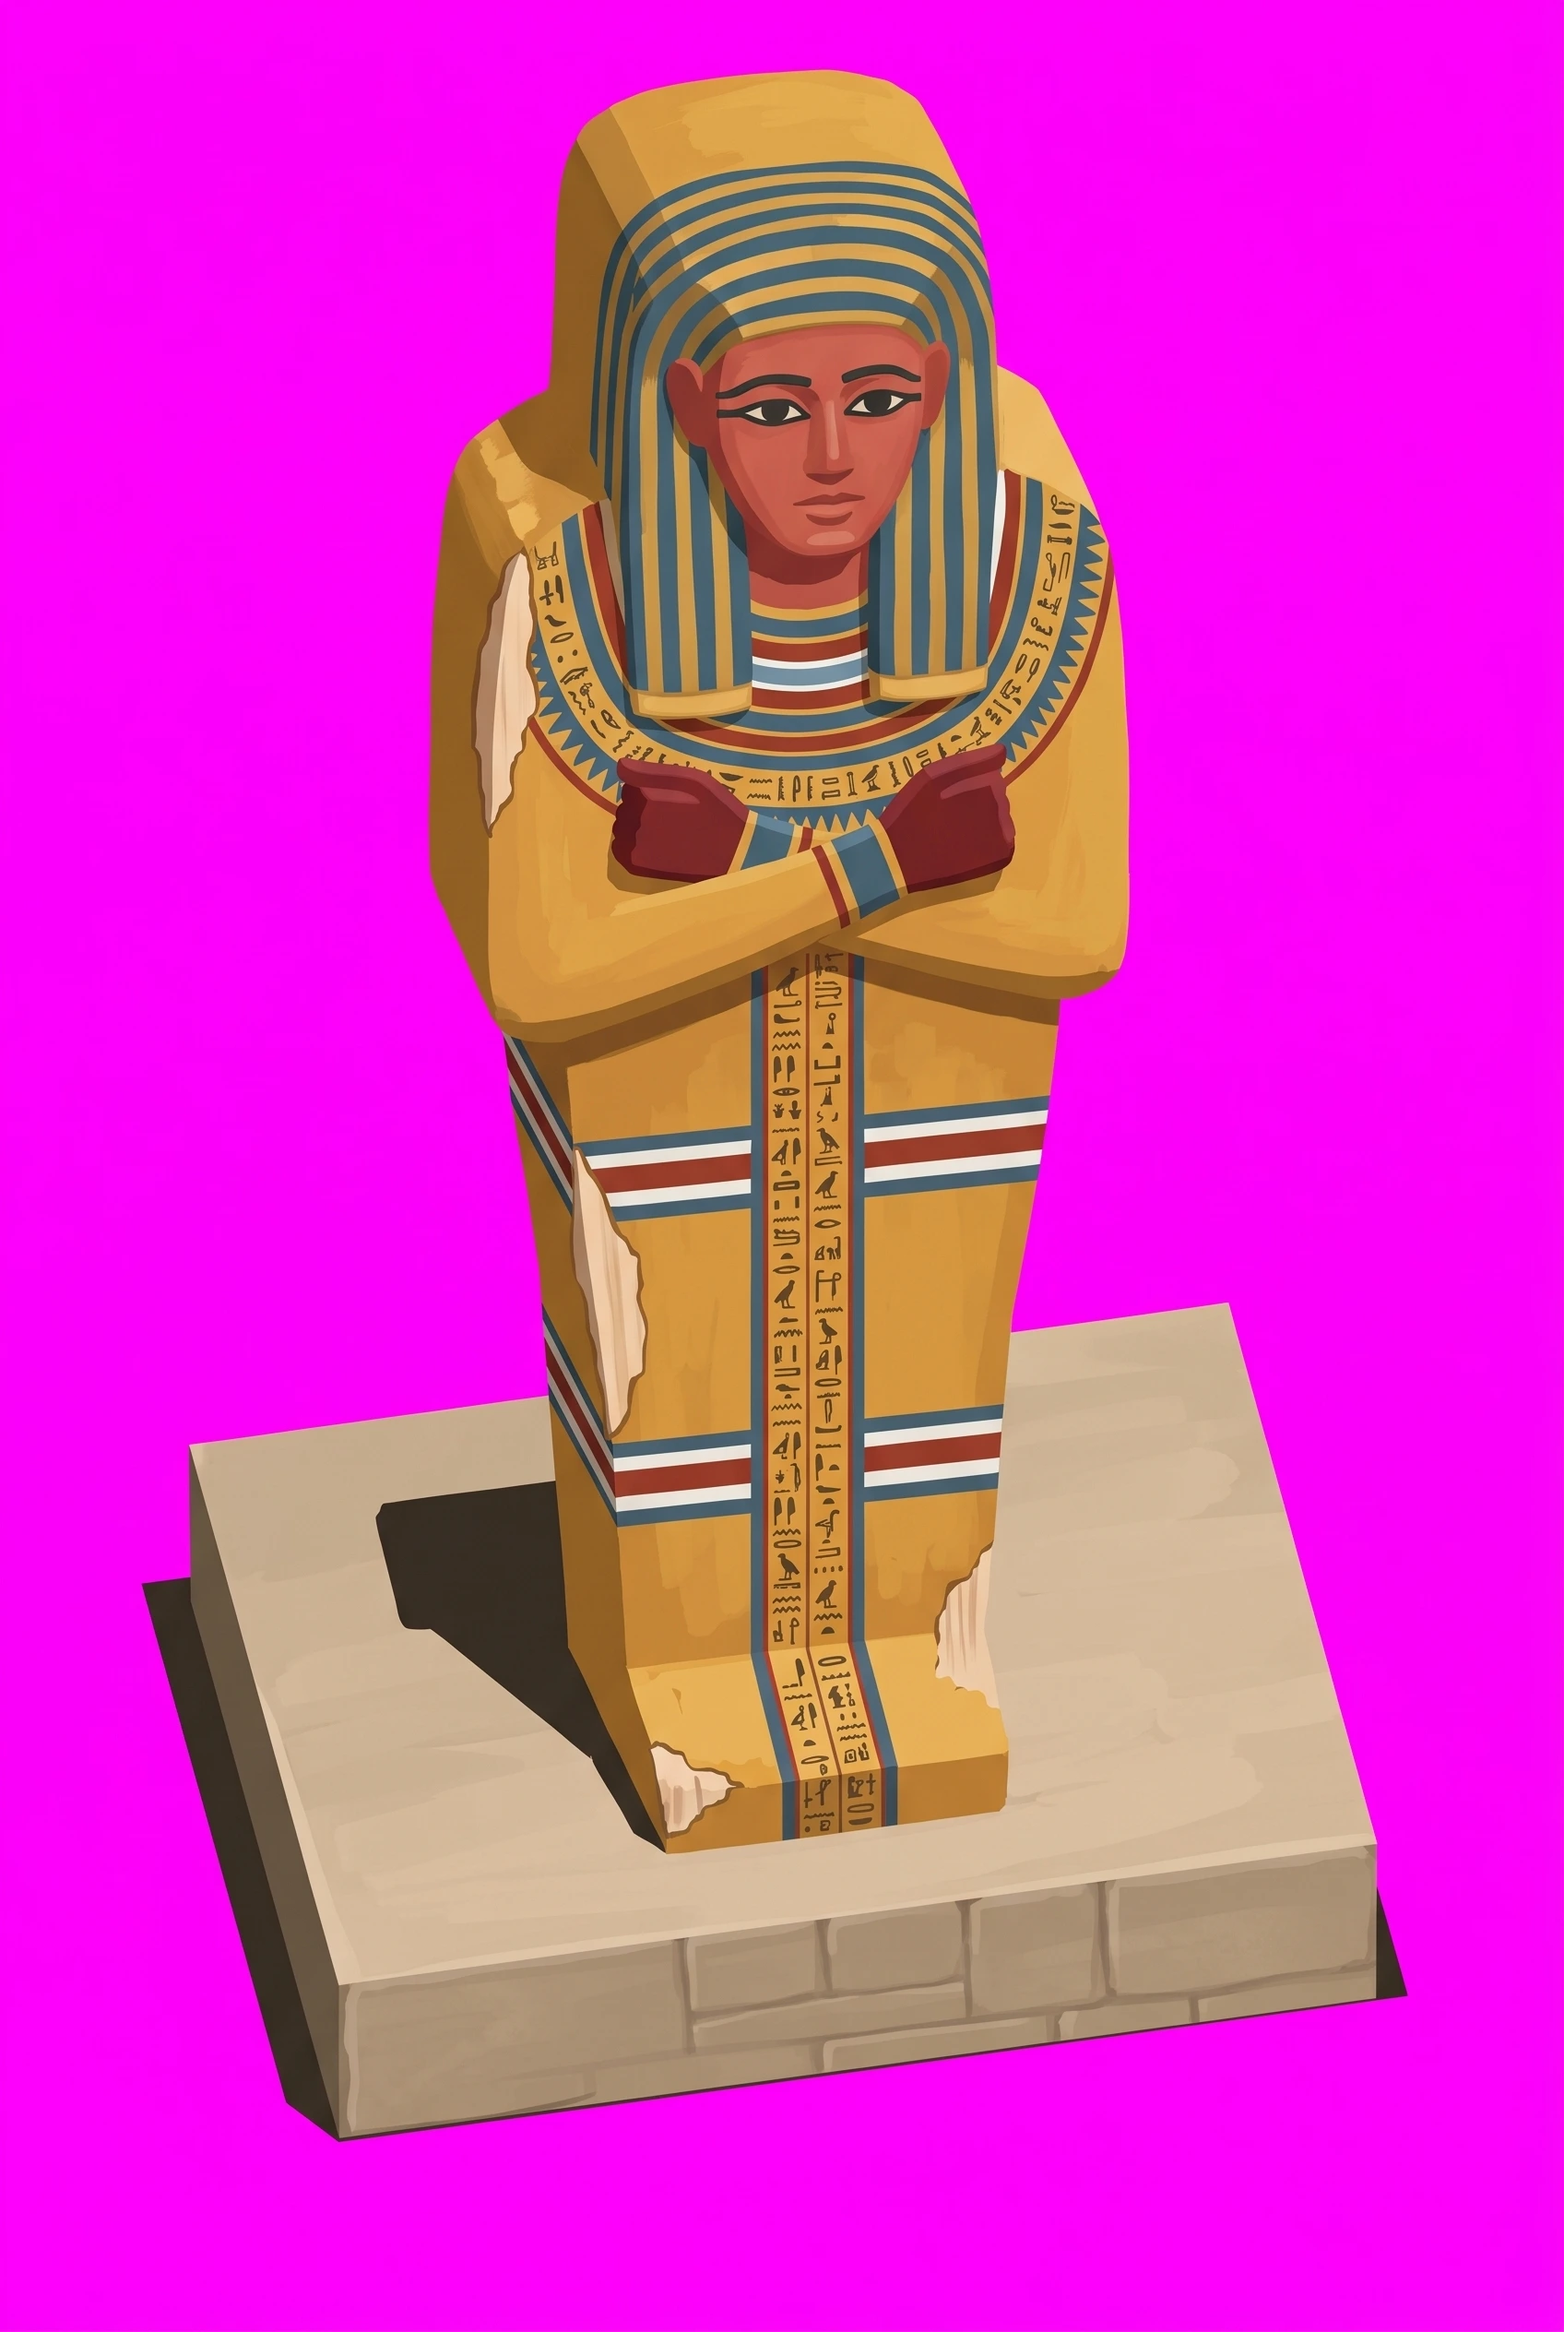
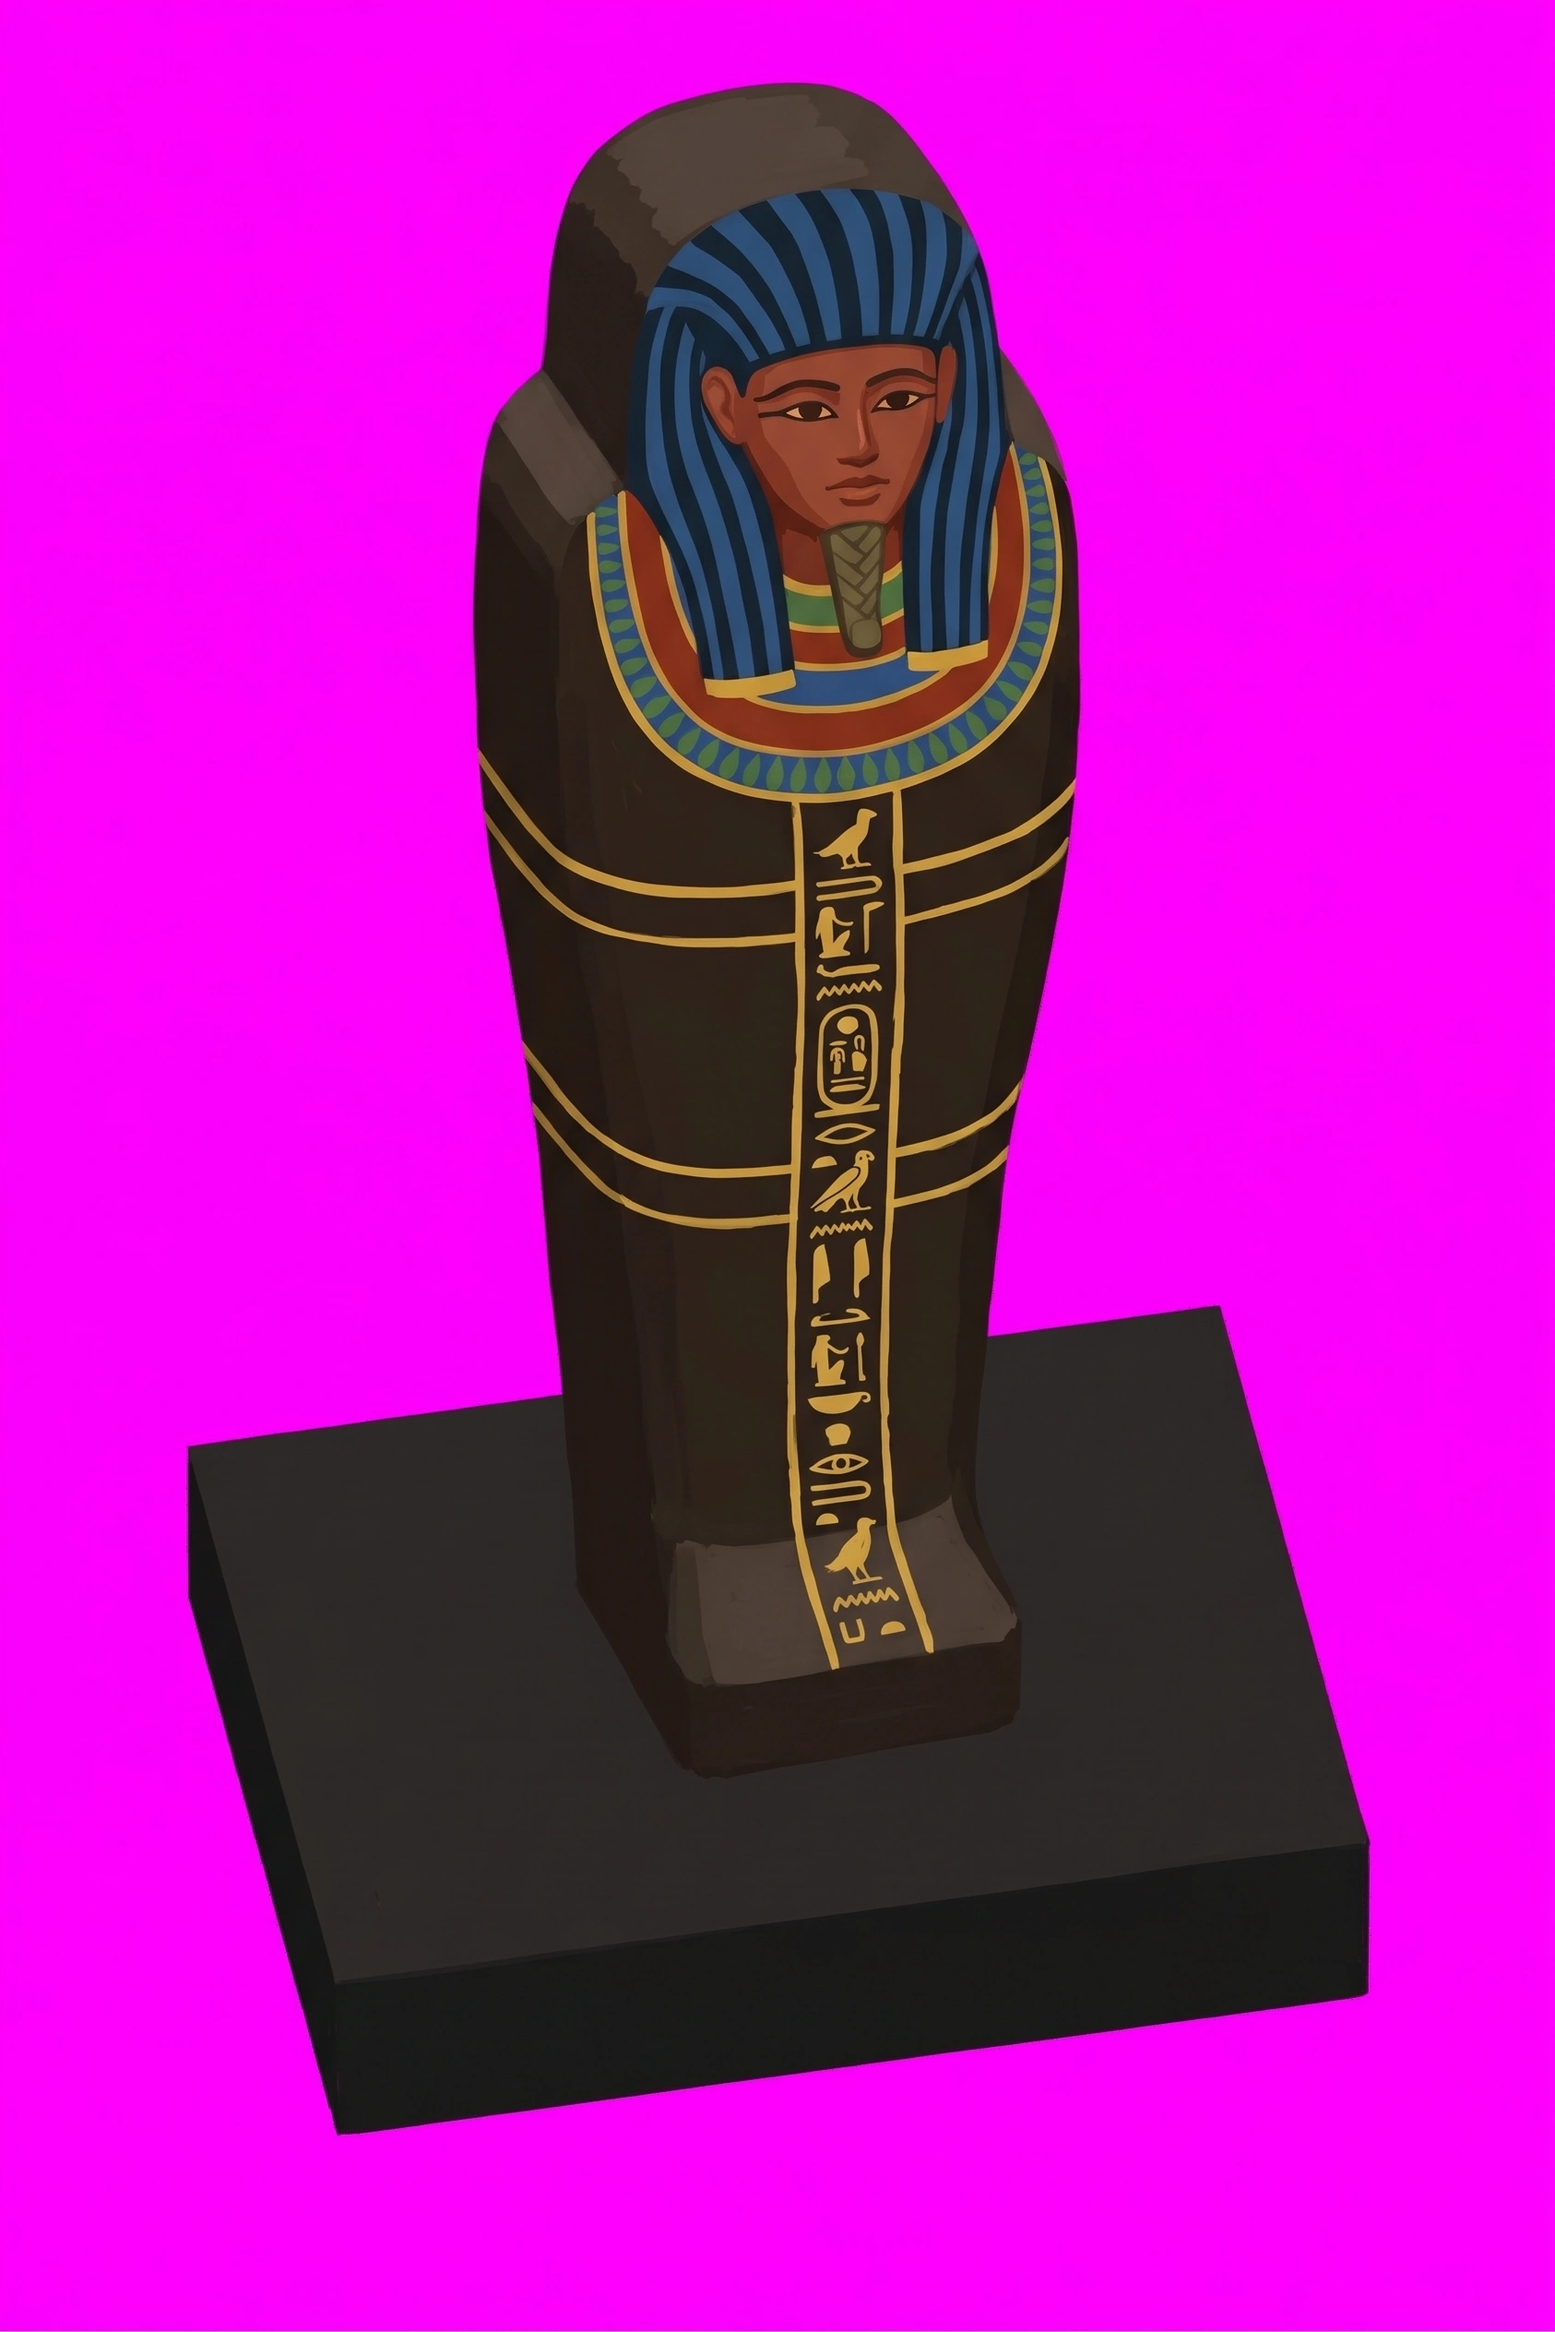
art: junior black-ground coffin
Claude-Session: https://claude.ai/code/session_01F6g2diRzQCzQwEf9zsEEGH

diff --git a/docs/instructions/repaint-queue.md b/docs/instructions/repaint-queue.md
@@ -483,7 +483,7 @@ Even lighting left to right, no hotspot, no vignette.
 
 ---
 
-## Nobleman — twenty
+## Nobleman — nineteen
 
 The nobleman's existing props, repainted for the rank's new light orange floor. Each is its own thing
 first: cedar is cedar, linen is linen, pottery is pottery, painted in red ochre, Egyptian blue and leaf
@@ -506,57 +506,6 @@ The last nine are the house's own kinds, new with its activities ([themed-rooms.
 § Junior): each has a primitive of its own in `renderProp.py` and a guarded block in `art/rebuild.sh`. The
 banquet table and the bed are two cells across, so their frame is landscape three by two; the harp and the
 potted tree stand a cell taller, so theirs is portrait two by five.
-
-### `junior/sarcophagus` — a black-ground anthropoid coffin
-
-**Re-roll:** the rank's palette moved (2026-11-03, `Topology/Palette moodboard`). Repainted against the new light orange floor, in its own material's colours; copper only as a trim.
-
-**Attach:**
-
-1. `~/tile-previews/sarcophagus-junior.png` — the scaffold
-2. `~/tile-previews/junior-plain.png` — the material reference
-
-```
-A wall-less product shot of a single object, painted in flat matte gouache, no background, on pure magenta #FF00FF. Portrait, two units wide by three tall, exactly as the reference. Do not re-compose it into a square. Paint over the reference image itself.
-
-The object: an upright ANTHROPOID COFFIN, a wrapped figure carved in wood. The upper marked part is the
-COFFIN; the block under it is its BASE.
-
-It is a COFFIN AND NOT A BOX: carve the outline of a wrapped body (a rounded head, shoulders, a body
-tapering to the feet) out of the rough block. No anatomy beyond that outline.
-
-PAINTED as a nobleman's black coffin: a BLACK resin ground #2a1f18 over the whole body, #3a2e26 on its
-top planes, crossed by narrow bands of yellow #c9a040, with a column of yellow hieroglyphs down the
-front. A striped wig in Egyptian blue #2a5a9a and black, a broad collar of red ochre #8a3a2a, blue and
-leaf green bands across the chest. The face is a calm flat mask in red-brown #8c4a36. The base is painted
-black too.
-
-THE REFERENCE IS A ROUGHED-OUT BLOCK, deliberately left fat. CHANGE, freely, and ONLY this: the contour
-of the figure, and only by CUTTING. CARVE INWARD ONLY — nothing may end up further left, right, higher or
-lower than the rough shape reaches.
-
-EVERYTHING ELSE IS FIXED:
-
-1. THE FRAME. Portrait, two units wide by three tall, exactly as the reference. Do not re-compose it into a square.
-2. THE PERSPECTIVE, THE PROJECTION, THE ANGLE AND THE ROTATION ARE THE REFERENCE'S. Take all four from the reference image exactly and do not reason about them. It is not a photograph and not an isometric view.
-3. IT STANDS upright, facing the viewer.
-4. THE PLINTH IS EXACTLY AS THE REFERENCE DRAWS IT — its angle, its rotation, how much of its top shows. Do not swing it round, do not flatten it.
-5. THE PLACEMENT AND THE SIZE. Every part stays where the reference puts it, and the whole object stays as tall and as wide in the frame as it already is. The figure is the marked upper part; the base is the lower part. Do not shrink the figure onto a taller base.
-
-You are re-carving a shape, not re-staging a photograph.
-
-ANYTHING DRAWN OUTSIDE THE ROUGH SHAPE IS CUT OFF. Nothing is added below the plinth — no ground, no shadow, no floor.
-
-No highlights, no gloss, no rim light, no ground plane, no reflections. Matte throughout, evenly lit, crisp and clean. Nobleman's house: orange sandstone, painted plaster, cedar, linen, reed and pottery, each in its OWN colours so it reads at a glance as what it is. Copper is an accent only — a rim, a band, a hasp, gone verdigris green at the edges — never a tint over the whole object.
-```
-
-Then, once the return is in `~/Downloads`:
-
-```sh
-scaffold statue --contents=mummiform --spin=11 --colour=#4a3e34 --colour-figure=#5a4e44 --floor=#e2a86f
-yarn import-tile art/masters/props/junior/sarcophagus.webp --tier=junior --name=sarcophagus --slot=prop \
-  --filter=smooth --mask="$OBJ" --seat="$SHADOW"
-```
 
 ### `junior/shrine-anubis` — a false door with Anubis on its panel
 
